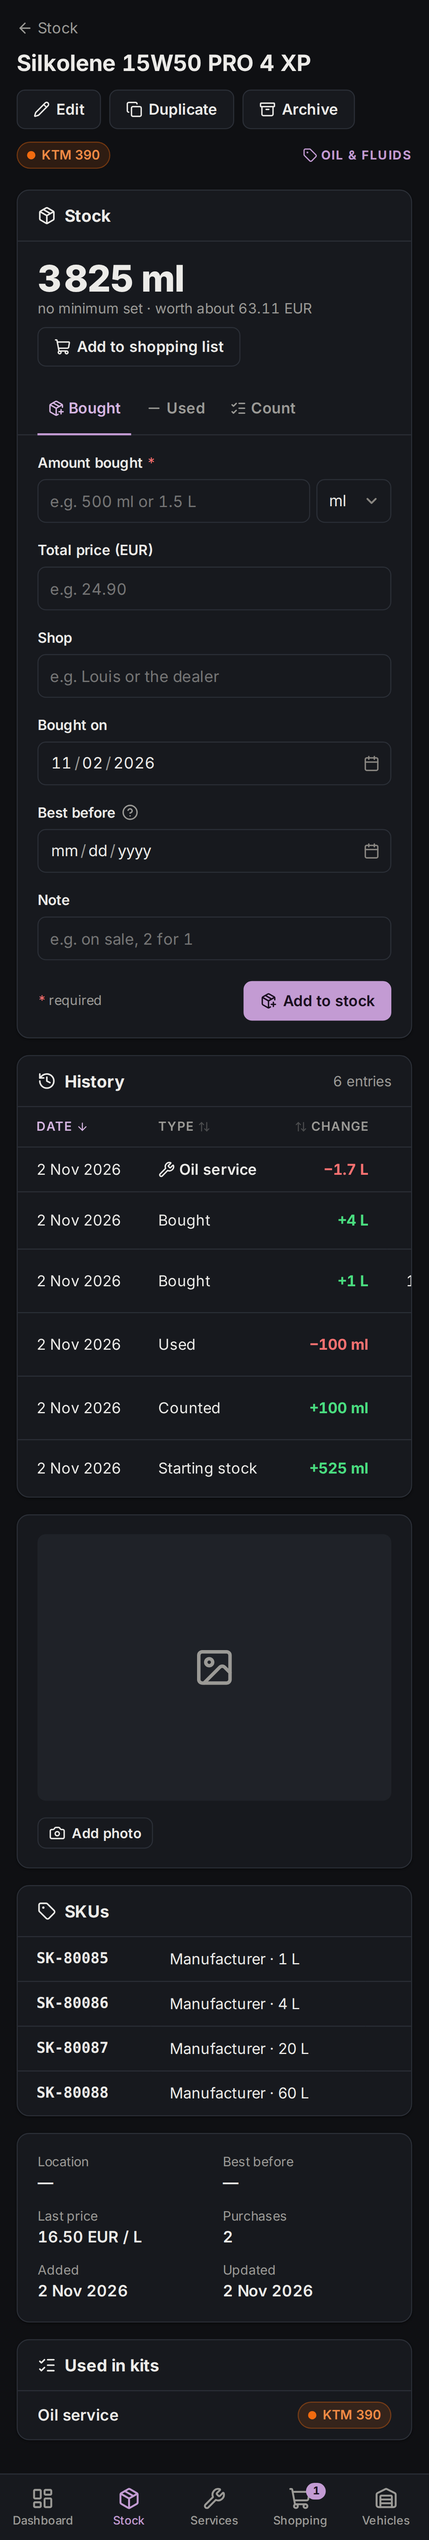
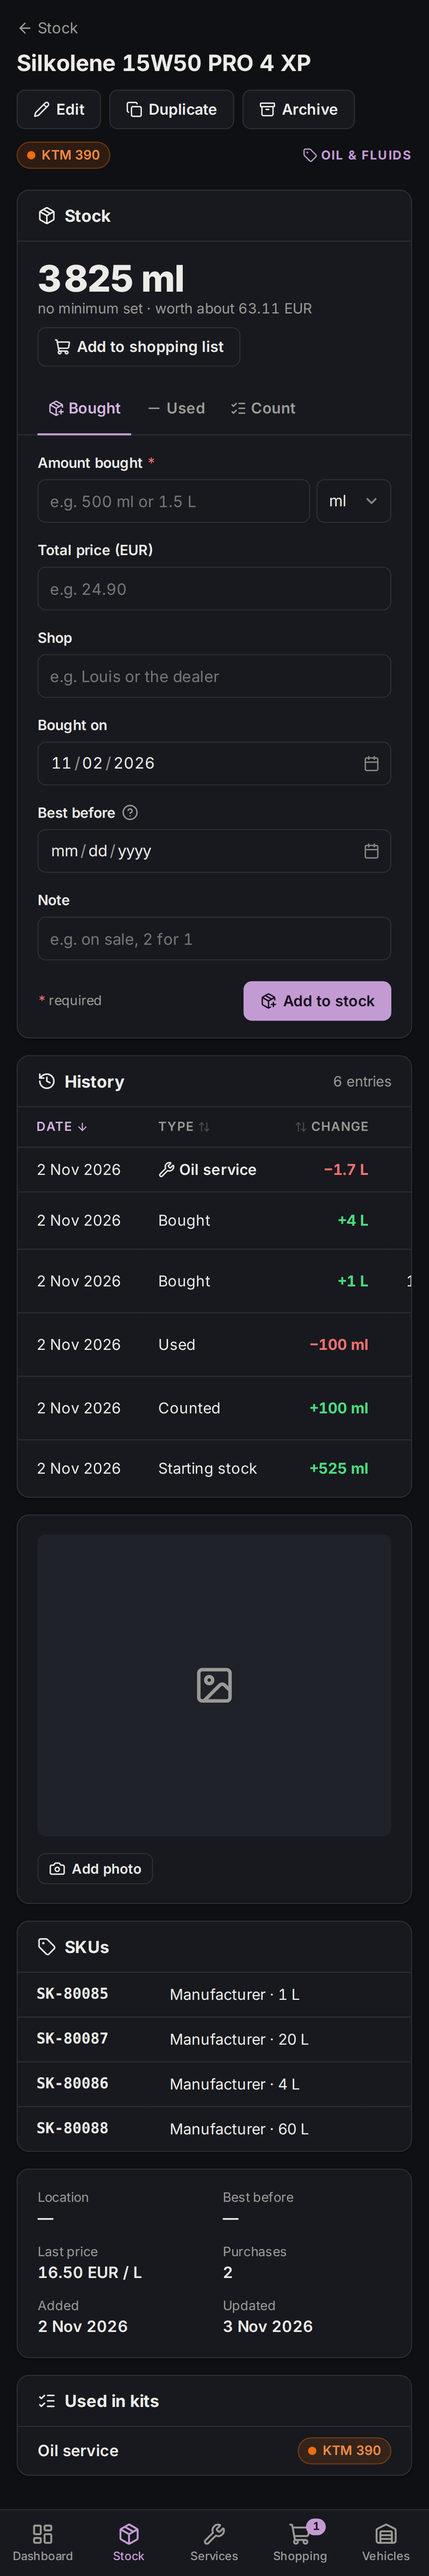
feat: support pinning time in app and adjust item photo height ratio

diff --git a/internal/web/static/app.css b/internal/web/static/app.css
@@ -555,7 +555,7 @@ a.kit-row:hover { background: color-mix(in srgb, var(--surface-2) 50%, transpare
 /* ---------- Item detail ---------- */
 /* 4:3, in whole pixels: the card is a container, so its width is known. */
 .photo-card { container-type: inline-size; }
-.photo { height: round(75cqw, 2px); background: var(--surface-2); border-radius: var(--radius-sm); overflow: hidden; display: grid; place-items: center; color: var(--muted); }
+.photo { height: round(85cqw, 2px); background: var(--surface-2); border-radius: var(--radius-sm); overflow: hidden; display: grid; place-items: center; color: var(--muted); }
 /* One cell the photo's size, so the link and image can fill it. */
 .photo:has(> a) { grid-template: 100% / 100%; }
 .photo > a, .photo img { width: 100%; height: 100%; }

diff --git a/e2e/playwright.config.ts b/e2e/playwright.config.ts
@@ -29,6 +29,7 @@ function server(port: number, schema: string) {
       APP_CURRENCY: "EUR",
       // The tests' own, whatever a local .env says (env wins over .env).
       APP_SKU_SEARCH_URL: "https://www.google.com/search?q={q}",
+      ...(process.env.APP_PIN_TIME ? { APP_PIN_TIME: process.env.APP_PIN_TIME } : {}),
     },
   };
 }

diff --git a/cmd/pitbox/main.go b/cmd/pitbox/main.go
@@ -18,6 +18,7 @@ import (
 
 	"github.com/sunny-azu-red/stock-items/internal/config"
 	"github.com/sunny-azu-red/stock-items/internal/db"
+	"github.com/sunny-azu-red/stock-items/internal/stock"
 	"github.com/sunny-azu-red/stock-items/internal/store"
 	"github.com/sunny-azu-red/stock-items/internal/web"
 )
@@ -85,6 +86,24 @@ func run() error {
 		logger.Info("photos ready", "libvips", v)
 	}
 
+	var nowFunc func() time.Time
+	if pin := os.Getenv("APP_PIN_TIME"); pin != "" {
+		if t, err := time.Parse(time.RFC3339, pin); err == nil {
+			nowFunc = func() time.Time { return t }
+			store.AppToday = func() time.Time { return stock.DateOnly(t.In(cfg.Location)) }
+			if schemaName(cfg.DB) != "public" {
+				ts := t.UTC().Format("2006-01-02 15:04:05-07")
+				for _, table := range []string{"items", "vehicles", "service_kits", "service_records", "stock_movements", "shopping_entries"} {
+					_, _ = pool.Exec(ctx, fmt.Sprintf("ALTER TABLE %s ALTER COLUMN created_at SET DEFAULT '%s'", table, ts))
+				}
+				for _, table := range []string{"items", "vehicles", "service_kits"} {
+					_, _ = pool.Exec(ctx, fmt.Sprintf("ALTER TABLE %s ALTER COLUMN updated_at SET DEFAULT '%s'", table, ts))
+				}
+				_, _ = pool.Exec(ctx, fmt.Sprintf("ALTER TABLE trash ALTER COLUMN deleted_at SET DEFAULT '%s'", ts))
+			}
+		}
+	}
+
 	srv, err := web.New(store.New(pool), web.Options{
 		Currency:        cfg.Currency,
 		SKUSearchURL:    cfg.SKUSearchURL,
@@ -92,6 +111,7 @@ func run() error {
 		Version:         buildVersion(),
 		AllowedHosts:    cfg.AllowedHosts,
 		Logger:          logger,
+		Now:             nowFunc,
 	})
 	if err != nil {
 		return err

diff --git a/internal/store/store.go b/internal/store/store.go
@@ -258,11 +258,11 @@ func normalizeCode(q string) string {
 	return b.String()
 }
 
-// appToday is today in the app's zone, for a store call made without a
-// date. main sets time.Local to it (TZ, else the machine's zone). SQL never
-// works a day out itself (current_date): the session is in UTC, which
-// isn't the app's day around midnight.
-func appToday() time.Time { return stock.DateOnly(time.Now()) }
+// AppToday is today in the app's zone, for a store call made without a
+// date. By default it uses time.Now().
+var AppToday = func() time.Time { return stock.DateOnly(time.Now()) }
+
+func appToday() time.Time { return AppToday() }
 
 // sqlArgs collects positional query arguments.
 type sqlArgs []any

diff --git a/docs/conventions.md b/docs/conventions.md
@@ -57,7 +57,7 @@ These rules keep the app simple, safe and consistent. They apply to people and c
   - Set a line height with `--lh` (a factor, like a unitless `line-height`), never with `line-height`: one rule makes every element's line `--lh` times its own font size, rounded to an even number of pixels. A rule that resets the font with `font: inherit` restores that line height right after it.
   - Lengths are `px`, not `rem` (font sizes may stay in `rem`; their lines are rounded). No lengths in inline `style` attributes.
   - Heights that something is centred against are even: icons are `round(1.15em, 2px)` or an even px size, checkboxes 14px, gaps even (a gap is vertical once a row wraps), borders in pairs. Then centring lands on a whole pixel.
-  - A size from a ratio or from the font is rounded: the item photo is `round(75cqw, 2px)` in a size container, the dashboard figures `round(up, 1cap, 1px)`. Tables use `border-collapse: separate`: collapsed, a cell owns half a border.
+  - A size from a ratio or from the font is rounded: the item photo is `round(85cqw, 2px)` in a size container, the dashboard figures `round(up, 1cap, 1px)`. Tables use `border-collapse: separate`: collapsed, a cell owns half a border.
   - The e2e test "every box sits on whole pixels and its text lines up" walks every page and form on desktop and a phone. It lists each box that isn't on whole pixels (icons, images, inline text and `.sr-only` are skipped), and text more than 1px out of line: an icon against the capitals beside it, capitals against the middle of their button, chip, badge or nav link, and the capitals of things side by side in a centred row. A cell or row item with a second line under it (the kit page's stock meter) is aligned by its first line: `vertical-align: top`, and anything taller than the line centred on it.
 - Keyboard shortcuts are global only (the same key does the same thing on every page) and few: the most common actions, `/` Search stock, `a` Add item, `l` Log service. Each is the first letter of the sidebar button it stands for, so a renamed button changes its key. The sidebar lists them all; they don't fire in a field, and leaving a form with unsaved changes asks first.
 - Accessibility: real `<label>`s for inputs, buttons for actions, links for navigation, `aria-label` on icon-only buttons.

diff --git a/docs/development.md b/docs/development.md
@@ -72,4 +72,4 @@ Actions are pinned to commit SHAs and the base images to digests; [Dependabot](.
 scripts/screenshots.sh
 ```
 
-This retakes `docs/screenshots`: every page and form, on desktop and phone, in light and dark (`docs/screenshots/<desktop|mobile>/<light|dark>/<page>.png`). It runs the whole e2e suite; the screenshot test comes late in it, so the pages have photos, history and trash to show. Then it recompresses the PNGs losslessly (about a third smaller) and lists what changed. Commit your changes first (it refuses otherwise). The sidebar in the screenshots shows a pinned version (`6b1ea22`, set in the script) that looks like a commit but isn't the latest one, so no commit changes every screenshot: a re-run only changes the pages that did. Chromium's anti-aliasing varies by a colour level or two between runs; a screenshot within that of the committed one keeps the committed file. The README shows four of them by path, so it stays up to date; the rest are there to browse. A new page goes in the `shots` list of the `screenshots` test in `e2e/tests/garage.spec.ts`.
+This retakes `docs/screenshots`: every page and form, on desktop and phone, in light and dark (`docs/screenshots/<desktop|mobile>/<light|dark>/<page>.png`). It runs the whole e2e suite; the screenshot test comes late in it, so the pages have photos, history and trash to show. Then it recompresses the PNGs losslessly (about a third smaller) and lists what changed. The sidebar in the screenshots shows a pinned version (`6b1ea22`) and date (`2026-11-02`, set in the script) that look like a commit and a real day, but aren't the latest ones, so a re-run only changes the pages that changed. Chromium's anti-aliasing varies by a colour level or two between runs; a screenshot within that of the committed one keeps the committed file. The README shows four of them by path, so it stays up to date; the rest are there to browse. A new page goes in the `shots` list of the `screenshots` test in `e2e/tests/garage.spec.ts`.
